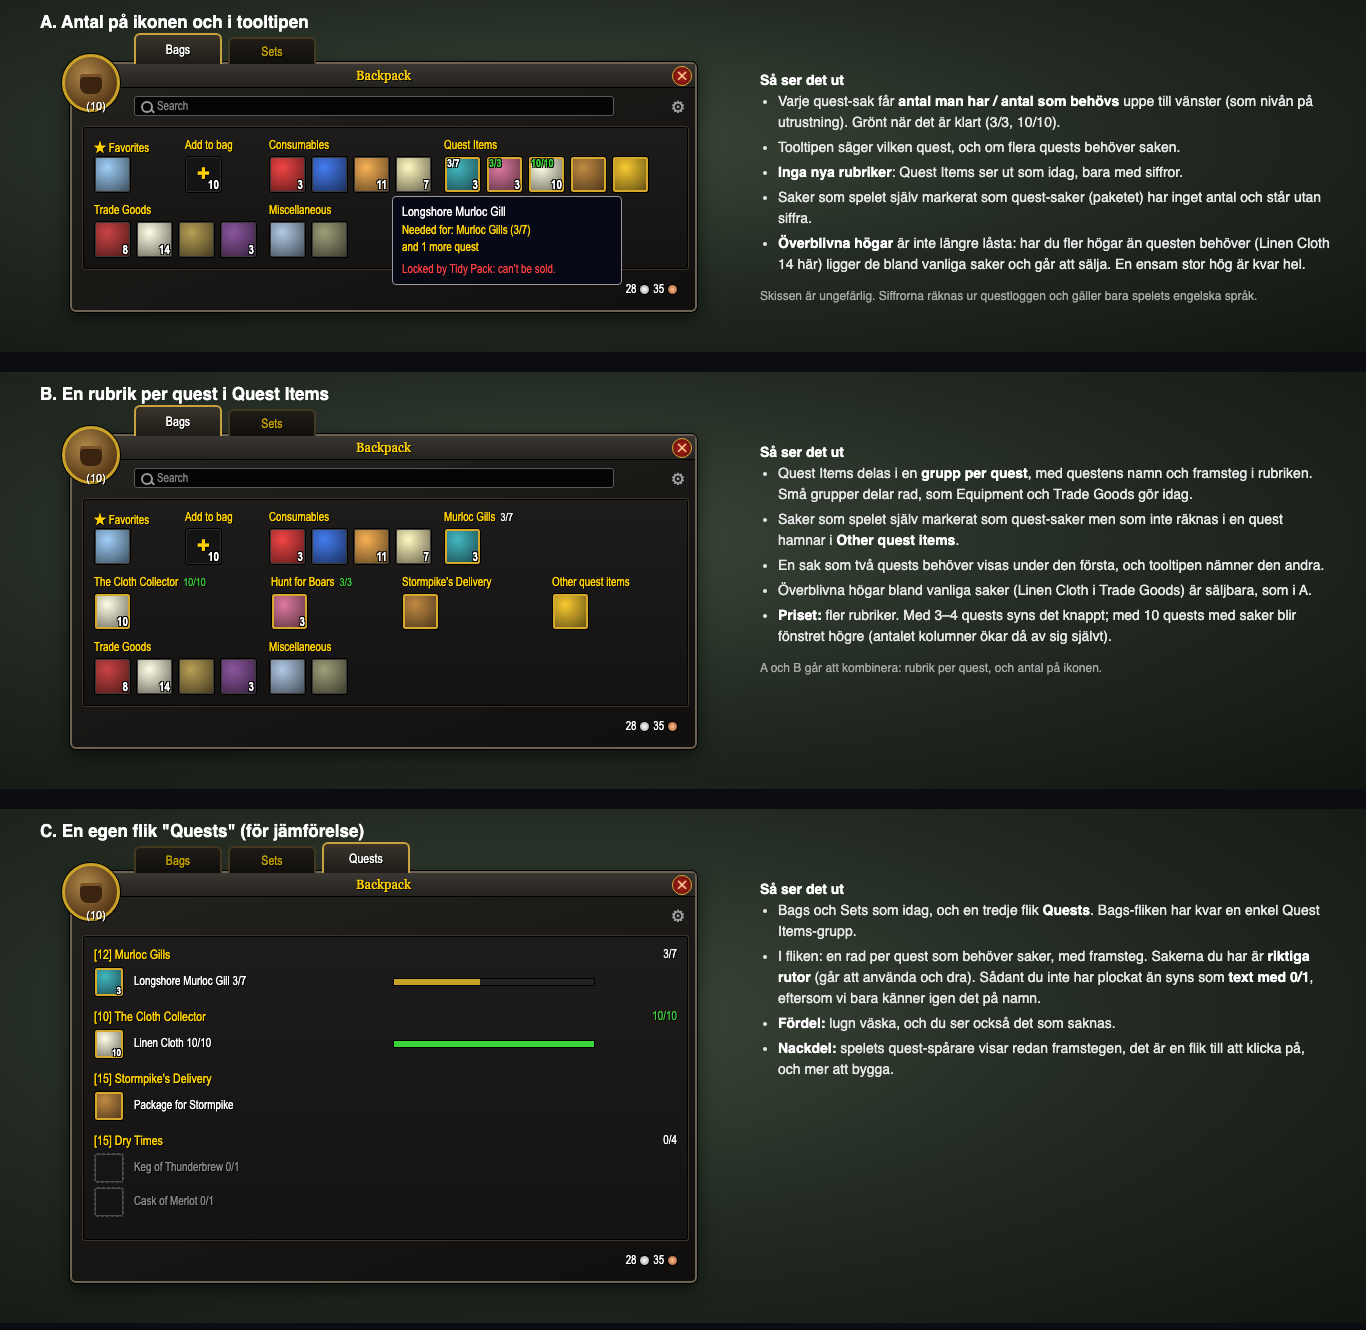
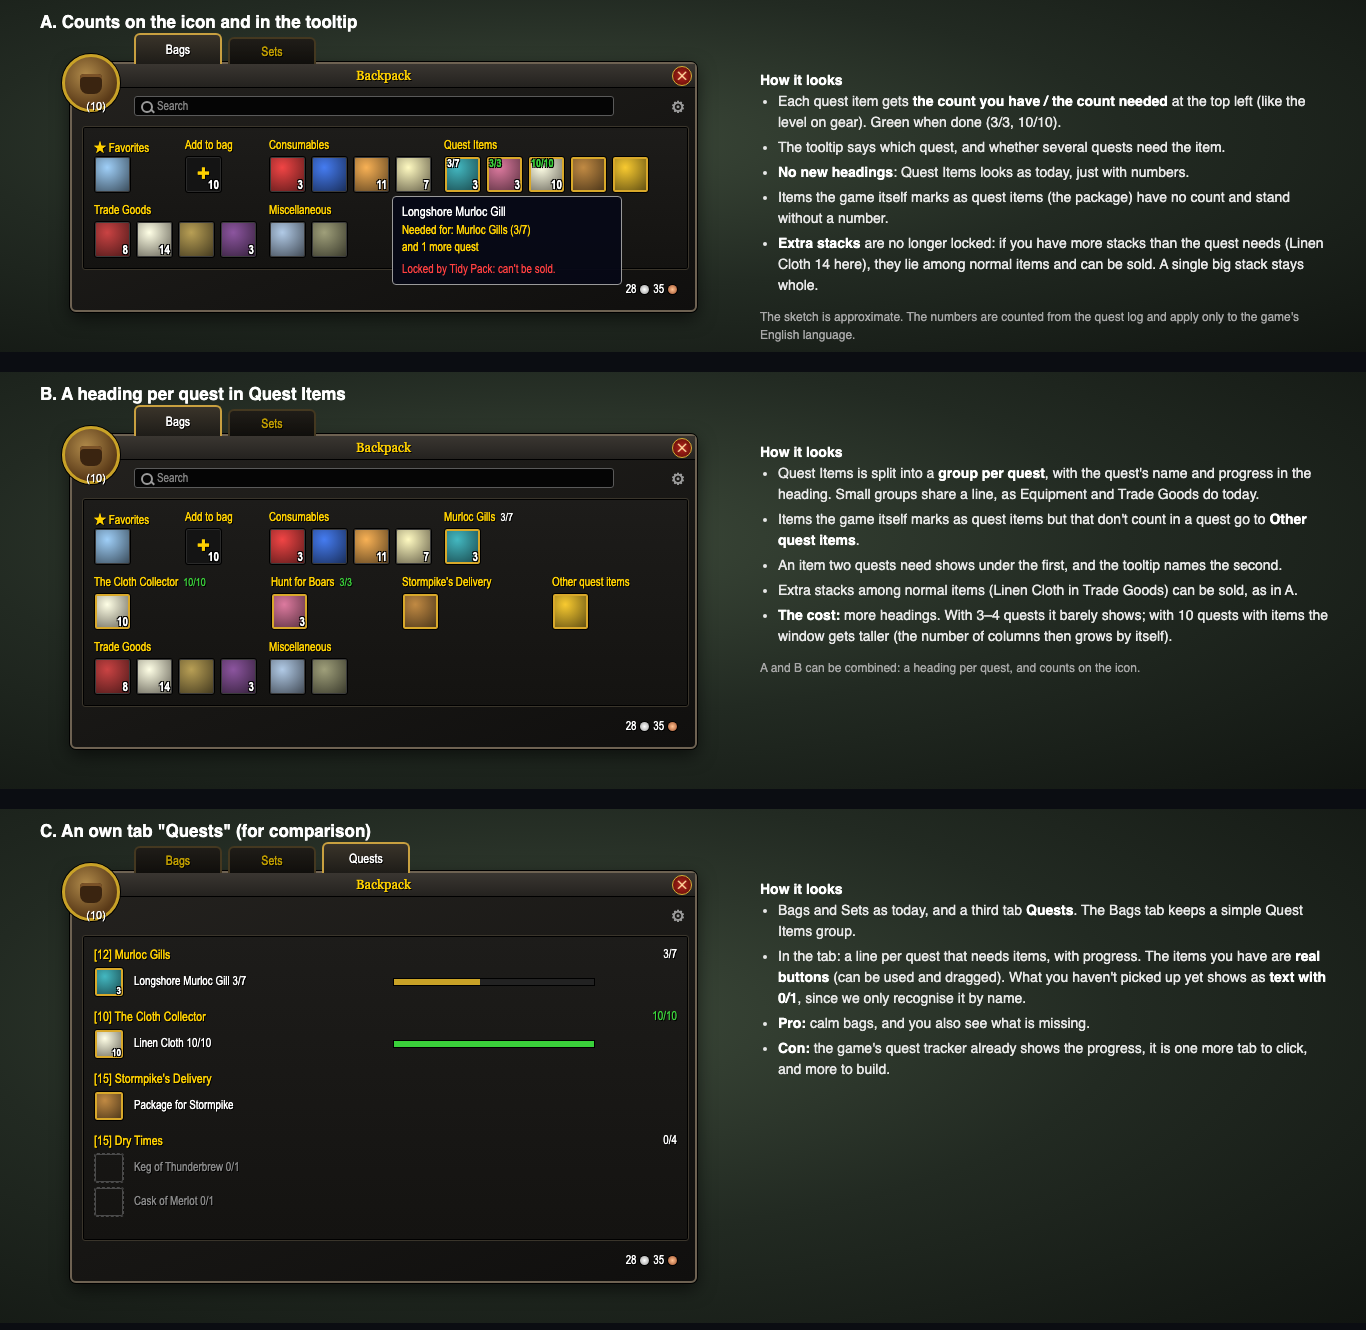
Translate .design/sketch-quests to English (#7)

diff --git a/.design/sketch-quests.html b/.design/sketch-quests.html
@@ -1,13 +1,13 @@
 <!DOCTYPE html>
-<html lang="sv">
+<html lang="en">
 <head>
 <meta charset="utf-8">
-<title>Tidy Pack – skiss av quest-saker</title>
+<title>Tidy Pack – sketch of quest items</title>
 <style>
   :root {
-    --wow-gold: #ffd100;       /* NORMAL_FONT_COLOR: rubriker och vanlig text */
-    --wow-white: #ffffff;      /* HIGHLIGHT_FONT_COLOR: framhävd text */
-    --wow-gray: #808080;       /* GRAY_FONT_COLOR: avstängt */
+    --wow-gold: #ffd100;       /* NORMAL_FONT_COLOR: headings and normal text */
+    --wow-white: #ffffff;      /* HIGHLIGHT_FONT_COLOR: highlighted text */
+    --wow-gray: #808080;       /* GRAY_FONT_COLOR: disabled */
     --title-font: "Friz Quadrata", "Friz Quadrata TT", Georgia, "Times New Roman", serif;
     --text-font: "Arial Narrow", "Helvetica Neue", Arial, sans-serif;
   }
@@ -23,18 +23,18 @@
   .controls legend { color: #a8a8a8; padding: 0 4px; }
   .controls label { margin-right: 12px; cursor: pointer; white-space: nowrap; }
 
-  /* Skärmen: 1366 × 768 enheter, skalas ned för att få plats i webbläsaren. */
+  /* The screen: 1366 × 768 units, scaled down to fit in the browser. */
   .viewport { width: 100%; max-width: 1366px; aspect-ratio: 1366 / 768; position: relative; overflow: hidden;
     border-radius: 6px; box-shadow: 0 0 0 1px #2a2f3a; }
   .screen { position: absolute; left: 0; top: 0; width: 1366px; height: 768px; transform-origin: 0 0;
     background: radial-gradient(ellipse at 50% 35%, #3d4a3a 0%, #222a22 45%, #111511 100%); }
 
-  /* Spelets standardgränssnitt, ungefär där det ligger från början. */
+  /* The game's default interface, roughly where it starts. */
   .blizz { position: absolute; border: 1px dashed rgba(255,255,255,.28); border-radius: 4px;
     color: rgba(255,255,255,.45); font: 12px var(--text-font); display: flex; align-items: center;
     justify-content: center; text-align: center; background: rgba(0,0,0,.18); }
 
-  /* Spelets väskfönster: ram med porträtt, titelrad och stängknapp. */
+  /* The game's bag window: frame with portrait, title bar and close button. */
   .bagframe { position: absolute; background: linear-gradient(160deg, #24221f 0%, #171614 60%, #100f0e 100%);
     border: 2px solid #6e6252; border-radius: 6px; box-shadow: 0 0 0 1px #000, 0 6px 18px rgba(0,0,0,.6); }
   .bagframe .titlebar { position: absolute; left: 0; right: 0; top: 0; height: 24px; border-bottom: 1px solid #000;
@@ -50,7 +50,7 @@
     background: radial-gradient(#b22219, #5b0d08); border: 1px solid #d4af37; color: #ffd9a0;
     font: bold 12px/18px Arial, sans-serif; text-align: center; }
 
-  /* Innehållet. Alla lägen räknas från fönstrets övre vänstra hörn. */
+  /* The content. All positions count from the window's top left corner. */
   .abs { position: absolute; }
   .search { height: 20px; border: 1px solid #5a5a5a; border-radius: 3px; background: #050505;
     font: 12px var(--text-font); color: var(--wow-gray); padding: 1px 6px 0 22px; line-height: 17px; }
@@ -58,17 +58,17 @@
     border: 2px solid #9a9a9a; border-radius: 50%; }
   .search::after { content: ""; position: absolute; left: 15px; top: 13px; width: 5px; height: 2px;
     background: #9a9a9a; transform: rotate(45deg); }
-  /* ★-knappen: svag tills du håller en sak. */
+  /* The ★ button: faint until you hold an item. */
   .starbutton { width: 26px; height: 26px; color: var(--wow-gold); font: 22px/26px Arial, sans-serif;
     text-align: center; text-shadow: 0 0 4px #ffb000, 1px 1px 0 #000; }
   .starbutton.idle { opacity: .35; }
   .header { font: 12px var(--text-font); color: var(--wow-gold); text-shadow: 1px 1px 0 #000; white-space: nowrap; }
   .header .star { color: var(--wow-gold); }
-  /* Förslag: flikar ovanför fönstret (spelets PanelTopTabButtonTemplate) och fliken Sets. */
+  /* Proposal: tabs above the window (the game's PanelTopTabButtonTemplate) and the Sets tab. */
   .toptab { position: absolute; height: 26px; width: 84px; display: flex; align-items: center; justify-content: center;
     font: 12px var(--text-font); color: var(--wow-gold); text-shadow: 1px 1px 0 #000; border: 2px solid #5a4a2a;
     border-bottom: none; border-radius: 6px 6px 0 0; background: linear-gradient(#2a2620, #15130f); }
-  /* Flikarna som i Forevers trollbok, men ovanpå fönstrets kant; den valda högre och ljusare. */
+  /* The tabs as in Forever's spellbook, but on top of the window's edge; the chosen one taller and lighter. */
   .toptab { height: 27px; width: 88px; font-size: 13px; filter: brightness(0.75); z-index: 3; }
   .toptab.active { height: 31px; color: #fff; background: linear-gradient(#3a342a, #1e1c18); border-color: #c8a040; filter: none; }
   .setrow { position: absolute; height: 44px; border-radius: 3px; }
@@ -83,7 +83,7 @@
   .setrow .mini.gone { background: #222; box-shadow: inset 0 0 0 1px #555; }
   .setrow .worn.warnright { color: #ff9a2a; }
   .setshint { position: absolute; font: 11px var(--text-font); color: #9a9a9a; }
-  /* Förslag: specialväskorna längst ned, under en skiljelinje som i spelets egna fönster. */
+  /* Proposal: the special bags at the bottom, under a divider as in the game's own windows. */
   .divider { height: 1px; background: linear-gradient(90deg, transparent, #8a7440 15%, #8a7440 85%, transparent); }
   .header .bagicon { display: inline-block; width: 12px; height: 12px; margin-right: 4px; vertical-align: -2px;
     border-radius: 2px; background: linear-gradient(135deg, #a07040, #4a2a10); box-shadow: 0 0 0 1px #000; }
@@ -94,8 +94,8 @@
   .slot .count { right: 2px; bottom: 0; font-size: 12px; }
   .slot .ilvl { left: 2px; top: 0; }
   .slot .boe { left: 2px; bottom: 0; }
-  .slot.q2 { box-shadow: inset 0 0 0 2px #1eff00; }   /* ovanlig: grön ram */
-  .slot.q3 { box-shadow: inset 0 0 0 2px #0070dd; }   /* sällsynt: blå ram */
+  .slot.q2 { box-shadow: inset 0 0 0 2px #1eff00; }   /* uncommon: green border */
+  .slot.q3 { box-shadow: inset 0 0 0 2px #0070dd; }   /* rare: blue border */
   .slot.junk::after { content: ""; position: absolute; left: 2px; top: 2px; width: 9px; height: 9px;
     border-radius: 50%; background: radial-gradient(#e8d070, #8a6a10); box-shadow: 0 0 0 1px #000; }
   .slot.quest::after { content: "!"; position: absolute; left: 3px; top: 0; font: bold 14px Arial, sans-serif;
@@ -107,7 +107,7 @@
   .slot.empty { background: #141414; box-shadow: inset 0 0 0 1px #2a2a2a; }
   .slot.cursor { outline: 3px solid #4fc3ff; outline-offset: 2px; }
   .slot.disabled { filter: grayscale(.8) brightness(.55); }
-  /* Låset: en liten bygel och kropp uppe till höger. Syns bara hos en handlare. */
+  /* The lock: a small shackle and body at the top right. Shows only at a merchant. */
   .lock { position: absolute; right: 1px; top: 1px; width: 11px; height: 13px; }
   .lock::before { content: ""; position: absolute; left: 2px; top: 0; width: 7px; height: 7px;
     border: 2px solid #e8d070; border-bottom: none; border-radius: 4px 4px 0 0; }
@@ -119,14 +119,12 @@
   .coin.gold { background: radial-gradient(#fff2a0, #c9a227); }
   .coin.silver { background: radial-gradient(#ffffff, #9a9a9a); }
   .coin.copper { background: radial-gradient(#ffc090, #a0522d); }
-  /* Spelets röda knapp (UIPanelButtonTemplate). */
+  /* The game's red button (UIPanelButtonTemplate). */
   .redbutton { position: absolute; height: 22px; padding: 0 12px; border-radius: 3px; border: 1px solid #000;
     background: linear-gradient(#a8261a, #5a0c06); box-shadow: inset 0 0 0 1px #d4af37;
     font: 12px/20px var(--title-font); color: var(--wow-gold); text-shadow: 1px 1px 0 #000; white-space: nowrap; }
 
-  /* Förslag: spelets ruta för tips (mallen HelpTipTemplate, som ärver GlowBoxTemplate). Mörk ruta
-     med gul glöd, vit text och en gul pil mot det tipset handlar om. 226 enheter bred, som
-     HelpTip.width i spelets kod. */
+  /* Proposal: the game's tip box (the template HelpTipTemplate, which inherits GlowBoxTemplate). A dark box with a yellow glow, white text and a yellow arrow towards what the tip is about. 226 units wide, like HelpTip.width in the game's code. */
   .helptip { position: absolute; width: 226px; padding: 14px 16px 12px; background: rgba(0,0,0,.9);
     border: 1px solid #ffd100; border-radius: 3px; color: var(--wow-white); font: 13px/1.35 var(--text-font);
     box-shadow: 0 0 7px 2px rgba(255,190,0,.8), inset 0 0 8px rgba(255,190,0,.3); z-index: 5; }
@@ -135,8 +133,7 @@
   .tiparrow { position: absolute; width: 0; height: 0; z-index: 6; filter: drop-shadow(0 0 3px #ffb000); }
   .tiparrow.down { border-left: 11px solid transparent; border-right: 11px solid transparent; border-top: 16px solid #ffd100; }
   .tiparrow.right { border-top: 11px solid transparent; border-bottom: 11px solid transparent; border-left: 16px solid #ffd100; }
-  /* Handkontrollens knappar. Spelet visar symbolerna för just den kontroll man har (Xbox,
-     PlayStation eller Switch); här ritas Xbox-varianten ungefär. */
+  /* The controller's buttons. The game shows the symbols for the controller you have (Xbox, PlayStation or Switch); here the Xbox variant is drawn roughly. */
   .pad { display: inline-block; min-width: 17px; height: 17px; padding: 0 3px; border-radius: 9px; margin: 0 1px;
     font: bold 10px/17px Arial, sans-serif; color: #fff; text-align: center; vertical-align: -3px;
     box-shadow: 0 0 0 1px #000; text-shadow: none; }
@@ -145,9 +142,7 @@
   .pad.lb, .pad.rb { background: #3c3c3c; border-radius: 4px; }
   #tipNote { min-height: 0; }
 
-  /* Förslag: skräpknappen bredvid ★ och märket på saker du markerat som skräp är spelets eget
-     skräpmynt (bags-junkcoin, som spelet visar på grå saker hos en handlare). Saker som en quest
-     behöver senare får kartans gula utropstecken för quests du kan ta (QuestNormal). */
+  /* Proposal: the junk button next to ★ and the mark on items you marked as junk are the game's own junk coin (bags-junkcoin, which the game shows on grey items at a merchant). Items a quest needs later get the map's yellow exclamation mark for quests you can take (QuestNormal). */
   .trashbutton { width: 26px; height: 26px; }
   .trashbutton.idle { opacity: .35; }
   .trashbutton::before { content: ""; position: absolute; left: 4px; top: 4px; width: 18px; height: 18px; border-radius: 50%;
@@ -157,12 +152,12 @@
   .slot .later { position: absolute; right: 3px; top: -1px; font: bold 14px Arial, sans-serif; color: #ffd100;
     text-shadow: 1px 1px 0 #000, -1px 0 0 #000; }
   .slot .later::before { content: "!"; }
-  /* Spelets tooltip, ungefär. */
+  /* The game's tooltip, roughly. */
   .gametip { position: absolute; max-width: 280px; padding: 6px 9px; background: rgba(6,8,22,.95);
     border: 1px solid #9a9a9a; border-radius: 4px; font: 12px/1.45 var(--text-font); color: #fff; z-index: 7; }
   .gametip .gold { color: var(--wow-gold); }
   .gametip .white { font-size: 13px; }
-  /* Spelets lootfönster, ungefär, och Tidy Packs fråga under det. */
+  /* The game's loot window, roughly, and Tidy Pack's question under it. */
   .lootframe { position: absolute; width: 200px; background: linear-gradient(#2a2723, #151412);
     border: 2px solid #6e6252; border-radius: 5px; box-shadow: 0 0 0 1px #000, 0 6px 18px rgba(0,0,0,.6); }
   .lootframe .ltitle { font: 13px/24px var(--title-font); color: var(--wow-gold); text-align: center;
@@ -170,7 +165,7 @@
   .lootrow { display: flex; align-items: center; gap: 7px; padding: 5px 7px; font: 12px var(--text-font); color: #fff; }
   .lootrow .licon { width: 30px; height: 30px; border-radius: 3px; border: 1px solid #000; flex: none; }
   .lootrow.cursor .licon { outline: 3px solid #4fc3ff; outline-offset: 1px; }
-  /* Samma panel som spelets lootfönster (DefaultPanelFlatTemplate), lika bred och direkt under det. */
+  /* The same panel as the game's loot window (DefaultPanelFlatTemplate), as wide and right under it. */
   .makeroom { position: absolute; width: 200px; background: linear-gradient(#2a2723, #151412);
     border: 2px solid #6e6252; border-radius: 5px; box-shadow: 0 0 0 1px #000, 0 6px 18px rgba(0,0,0,.6);
     font: 12px/1.4 var(--text-font); color: #fff; z-index: 6; }
@@ -184,7 +179,7 @@
   .errortext { position: absolute; left: 0; right: 0; top: 150px; text-align: center; color: #ff2a2a;
     font: bold 17px var(--title-font); text-shadow: 1px 1px 0 #000, 0 0 4px #000; }
 
-  /* Förslag: spelets egen meny (Menu-systemet, MenuUtil.CreateContextMenu), ungefär. */
+  /* Proposal: the game's own menu (the Menu system, MenuUtil.CreateContextMenu), roughly. */
   .gamemenu { position: absolute; min-width: 190px; padding: 6px 0; background: rgba(8,8,8,.96);
     border: 1px solid #6e6252; border-radius: 4px; box-shadow: 0 0 0 1px #000, 0 4px 12px rgba(0,0,0,.6);
     font: 13px/1.7 var(--text-font); color: #fff; z-index: 8; }
@@ -192,7 +187,7 @@
   .gamemenu .mitem { padding: 0 14px; }
   .gamemenu .mitem.focus { background: rgba(255,209,0,.18); }
   .gamemenu .sep { height: 1px; margin: 4px 10px; background: #444; }
-  /* Förslag: spelets inställningsfönster (Options → AddOns), ungefär. */
+  /* Proposal: the game's options window (Options → AddOns), roughly. */
   .options { position: absolute; left: 233px; top: 70px; width: 900px; height: 610px; z-index: 9;
     background: linear-gradient(#1c1b19, #0e0d0c); border: 2px solid #6e6252; border-radius: 6px;
     box-shadow: 0 0 0 1px #000, 0 8px 24px rgba(0,0,0,.7); font: 13px var(--text-font); color: #fff; }
@@ -222,7 +217,7 @@
     color: #8a8a8a; font-size: 12px; line-height: 16px; }
   .options .redbutton { position: relative; }
 
-  /* Förklaringar till skissen. */
+  /* Explanations for the sketch. */
   .callout { position: absolute; font: 12px -apple-system, "Segoe UI", sans-serif; color: #fff;
     background: #2563eb; padding: 2px 6px; border-radius: 4px; white-space: nowrap; }
   ul { max-width: 900px; padding-left: 20px; }
@@ -283,7 +278,7 @@
 </head>
 <body>
 
-<div class="card" style="height: 560px;"><h2>A. Antal på ikonen och i tooltipen</h2>
+<div class="card" style="height: 560px;"><h2>A. Counts on the icon and in the tooltip</h2>
   <div class="bagframe" id="bagA" style="left: 70px; top: 62px; width: 628px; height: 400px;"></div>
   <div class="gametip" style="left: 392px; top: 196px; width: 230px;">
     <div class="white">Longshore Murloc Gill</div>
@@ -292,50 +287,44 @@
     <div style="color:#ff4040; margin-top:4px;">Locked by Tidy Pack: can't be sold.</div>
   </div>
   <div class="side" style="left: 760px; top: 70px; width: 570px;">
-    <b>Så ser det ut</b>
+    <b>How it looks</b>
     <ul>
-      <li>Varje quest-sak får <b>antal man har / antal som behövs</b> uppe till vänster (som nivån på utrustning).
-        Grönt när det är klart (3/3, 10/10).</li>
-      <li>Tooltipen säger vilken quest, och om flera quests behöver saken.</li>
-      <li><b>Inga nya rubriker</b>: Quest Items ser ut som idag, bara med siffror.</li>
-      <li>Saker som spelet själv markerat som quest-saker (paketet) har inget antal och står utan siffra.</li>
-      <li><b>Överblivna högar</b> är inte längre låsta: har du fler högar än questen behöver (Linen Cloth
-        14 här) ligger de bland vanliga saker och går att sälja. En ensam stor hög är kvar hel.</li>
+      <li>Each quest item gets <b>the count you have / the count needed</b> at the top left (like the level on gear). Green when done (3/3, 10/10).</li>
+      <li>The tooltip says which quest, and whether several quests need the item.</li>
+      <li><b>No new headings</b>: Quest Items looks as today, just with numbers.</li>
+      <li>Items the game itself marks as quest items (the package) have no count and stand without a number.</li>
+      <li><b>Extra stacks</b> are no longer locked: if you have more stacks than the quest needs (Linen Cloth 14 here), they lie among normal items and can be sold. A single big stack stays whole.</li>
     </ul>
-    <p style="color:#a8a8a8; font-size:12px;">Skissen är ungefärlig. Siffrorna räknas ur questloggen och gäller bara spelets engelska språk.</p>
+    <p style="color:#a8a8a8; font-size:12px;">The sketch is approximate. The numbers are counted from the quest log and apply only to the game's English language.</p>
   </div>
 </div>
 
-<div class="card" style="height: 560px;"><h2>B. En rubrik per quest i Quest Items</h2>
+<div class="card" style="height: 560px;"><h2>B. A heading per quest in Quest Items</h2>
   <div class="bagframe" id="bagB" style="left: 70px; top: 62px; width: 628px; height: 400px;"></div>
   <div class="side" style="left: 760px; top: 70px; width: 570px;">
-    <b>Så ser det ut</b>
+    <b>How it looks</b>
     <ul>
-      <li>Quest Items delas i en <b>grupp per quest</b>, med questens namn och framsteg i rubriken.
-        Små grupper delar rad, som Equipment och Trade Goods gör idag.</li>
-      <li>Saker som spelet själv markerat som quest-saker men som inte räknas i en quest hamnar i
+      <li>Quest Items is split into a <b>group per quest</b>, with the quest's name and progress in the heading. Small groups share a line, as Equipment and Trade Goods do today.</li>
+      <li>Items the game itself marks as quest items but that don't count in a quest go to
         <b>Other quest items</b>.</li>
-      <li>En sak som två quests behöver visas under den första, och tooltipen nämner den andra.</li>
-      <li>Överblivna högar bland vanliga saker (Linen Cloth i Trade Goods) är säljbara, som i A.</li>
-      <li><b>Priset:</b> fler rubriker. Med 3–4 quests syns det knappt; med 10 quests med saker blir
-        fönstret högre (antalet kolumner ökar då av sig självt).</li>
+      <li>An item two quests need shows under the first, and the tooltip names the second.</li>
+      <li>Extra stacks among normal items (Linen Cloth in Trade Goods) can be sold, as in A.</li>
+      <li><b>The cost:</b> more headings. With 3–4 quests it barely shows; with 10 quests with items the window gets taller (the number of columns then grows by itself).</li>
     </ul>
-    <p style="color:#a8a8a8; font-size:12px;">A och B går att kombinera: rubrik per quest, och antal på ikonen.</p>
+    <p style="color:#a8a8a8; font-size:12px;">A and B can be combined: a heading per quest, and counts on the icon.</p>
   </div>
 </div>
 
-<div class="card" style="height: 560px;"><h2>C. En egen flik "Quests" (för jämförelse)</h2>
+<div class="card" style="height: 560px;"><h2>C. An own tab "Quests" (for comparison)</h2>
   <div class="bagframe" id="bagC" style="left: 70px; top: 62px; width: 628px; height: 400px;"></div>
   <div class="side" style="left: 760px; top: 70px; width: 570px;">
-    <b>Så ser det ut</b>
+    <b>How it looks</b>
     <ul>
-      <li>Bags och Sets som idag, och en tredje flik <b>Quests</b>. Bags-fliken har kvar en enkel Quest Items-grupp.</li>
-      <li>I fliken: en rad per quest som behöver saker, med framsteg. Sakerna du har är <b>riktiga rutor</b>
-        (går att använda och dra). Sådant du inte har plockat än syns som <b>text med 0/1</b>, eftersom vi
-        bara känner igen det på namn.</li>
-      <li><b>Fördel:</b> lugn väska, och du ser också det som saknas.</li>
-      <li><b>Nackdel:</b> spelets quest-spårare visar redan framstegen, det är en flik till att klicka på,
-        och mer att bygga.</li>
+      <li>Bags and Sets as today, and a third tab <b>Quests</b>. The Bags tab keeps a simple Quest Items group.</li>
+      <li>In the tab: a line per quest that needs items, with progress. The items you have are <b>real buttons</b>
+        (can be used and dragged). What you haven't picked up yet shows as <b>text with 0/1</b>, since we only recognise it by name.</li>
+      <li><b>Pro:</b> calm bags, and you also see what is missing.</li>
+      <li><b>Con:</b> the game's quest tracker already shows the progress, it is one more tab to click, and more to build.</li>
     </ul>
   </div>
 </div>
